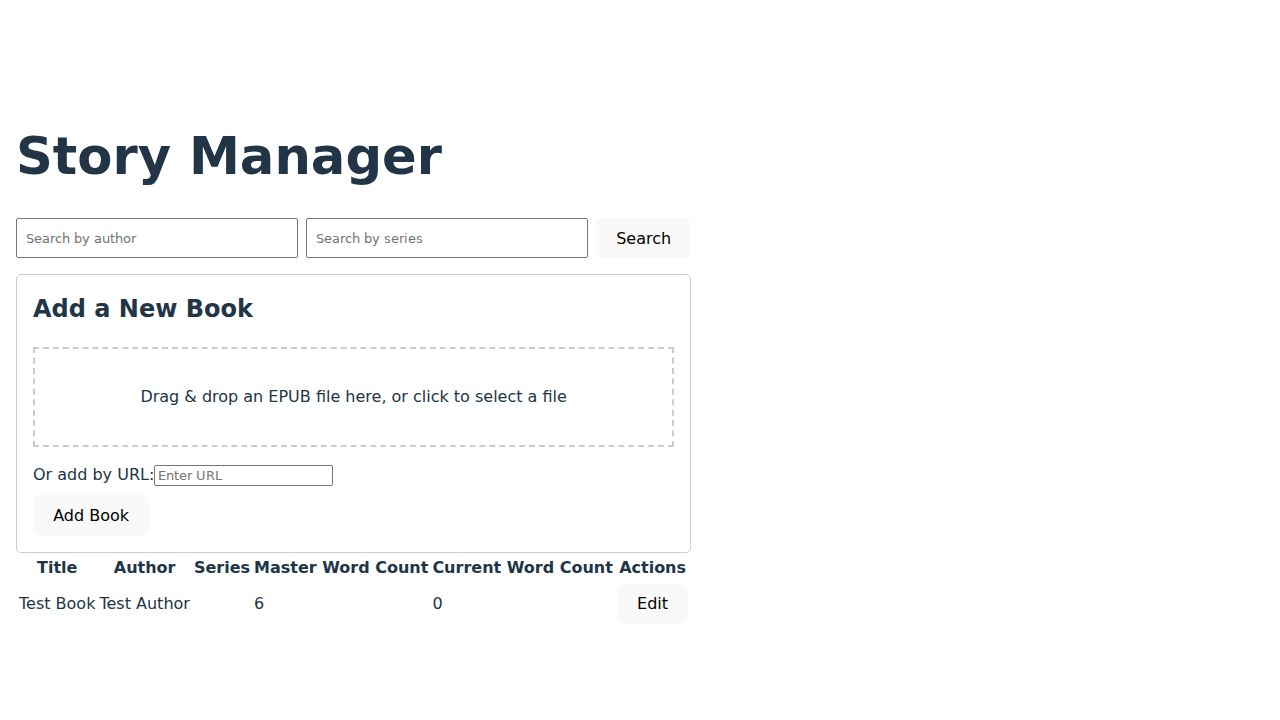
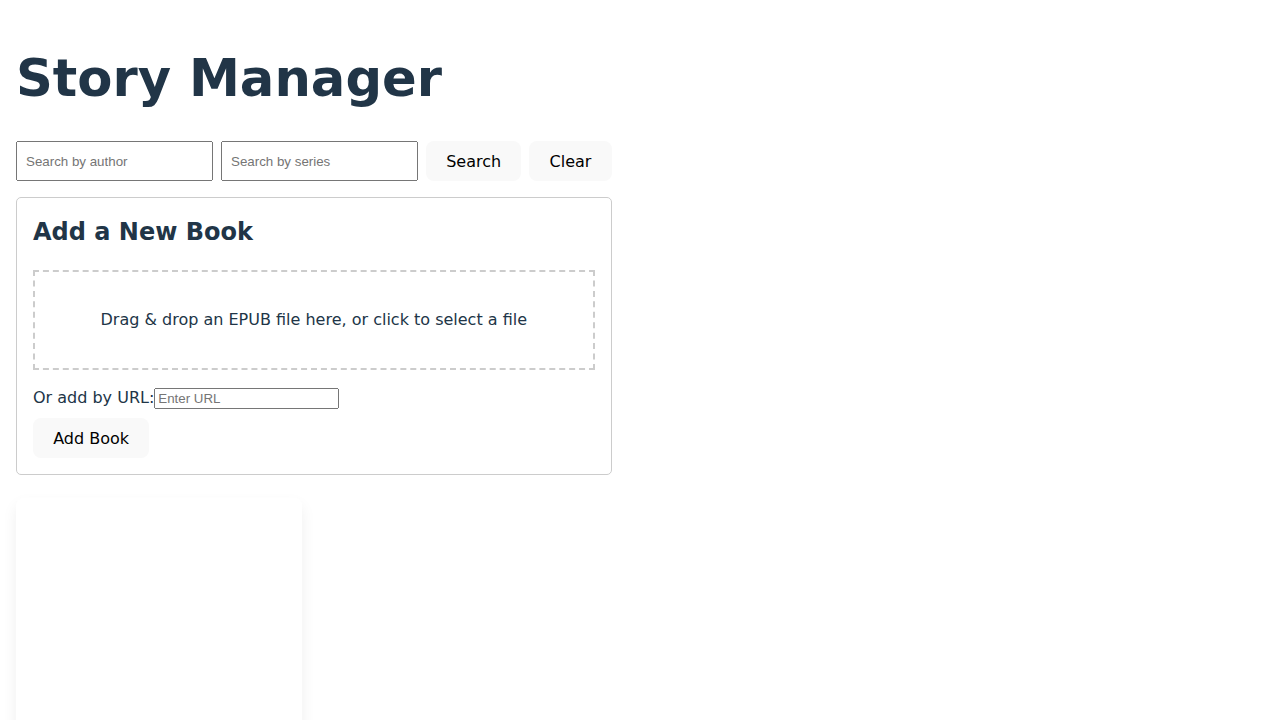
feat(frontend): refactor data fetching to use react-query
This refactors the frontend to use `@tanstack/react-query` for all data fetching and state management.

- Replaces `useState` and `useEffect` hooks in `App.jsx` with `useQuery` for fetching the book list.
- Replaces manual `fetch` calls in `AddBook.jsx` and `EpubEditor.jsx` with `useMutation` for adding and updating books.
- Implements cache invalidation on successful mutations to automatically refetch data and keep the UI in sync.
- Updates all relevant frontend tests to use a `QueryClientProvider` to ensure they work with the new data fetching mechanism.
- Fixes linting errors and updates end-to-end tests to match the new component structure.

diff --git a/frontend/tests-e2e/EpubEditor.spec.js b/frontend/tests-e2e/EpubEditor.spec.js
@@ -54,11 +54,8 @@ test("EpubEditor interactions", async ({ page }) => {
   // Wait for the book to appear in the list
   await expect(page.getByText("Test Book")).toBeVisible({ timeout: 10000 });
 
-  // Click the "Edit" button for the new book
-  await page
-    .getByRole("row", { name: /Test Book/i })
-    .getByRole("button", { name: /edit/i })
-    .click();
+  // Click the book card to edit it
+  await page.locator(".book-card").filter({ hasText: /Test Book/i }).click();
 
   // The editor should now be visible
   await expect(page.getByText("EPUB Editor for Test Book")).toBeVisible();
@@ -83,9 +80,8 @@ test("EpubEditor interactions", async ({ page }) => {
   await expect(page.getByText("Story Manager")).toBeVisible();
 
   // Verify the word count has changed
-  await expect(
-    page.getByRole("row", { name: /Test Book/i }).getByText("0"),
-  ).toBeVisible();
+  const bookCard = page.locator(".book-card").filter({ hasText: /Test Book/i });
+  await expect(bookCard.getByText(/Current: 0/i)).toBeVisible();
 
   await page.screenshot({ path: "frontend_verification.png" });
 });

diff --git a/frontend/src/components/EpubEditor.test.jsx b/frontend/src/components/EpubEditor.test.jsx
@@ -43,7 +43,6 @@ describe("EpubEditor", () => {
     let chapter1Checkbox;
     await waitFor(() => {
       // The checkbox is not directly associated with the text, so we get it by its role and name
-      const checkboxes = screen.getAllByRole("checkbox");
       const chapter1Label = screen.getByText("Chapter 1");
       const chapter1Li = chapter1Label.closest("li");
       chapter1Checkbox = chapter1Li.querySelector("input[type='checkbox']");
